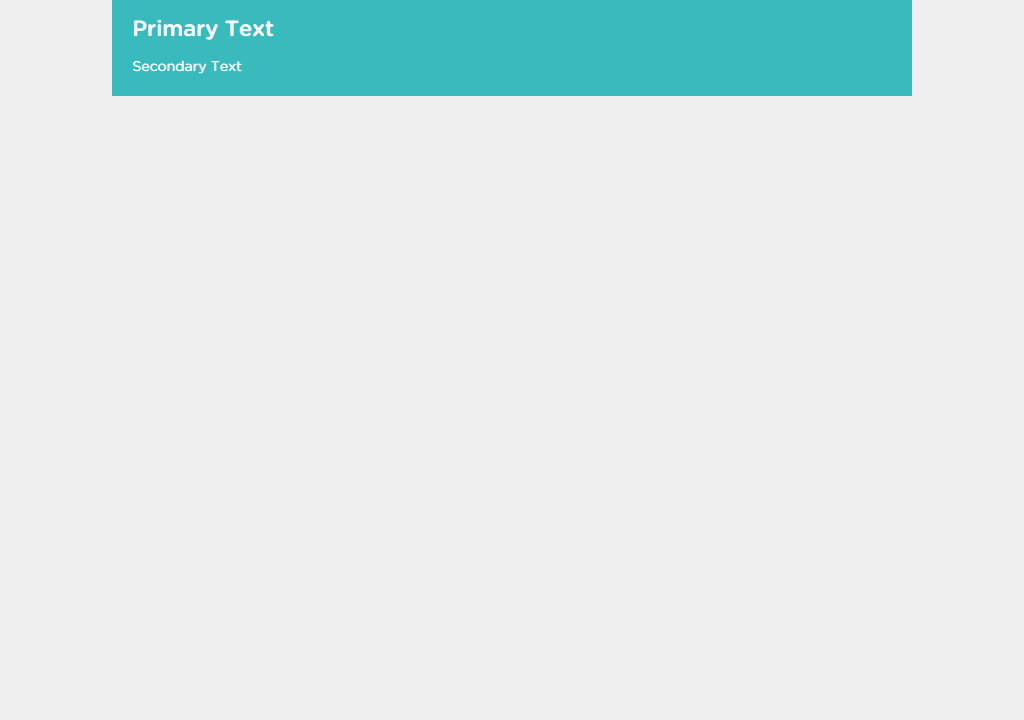
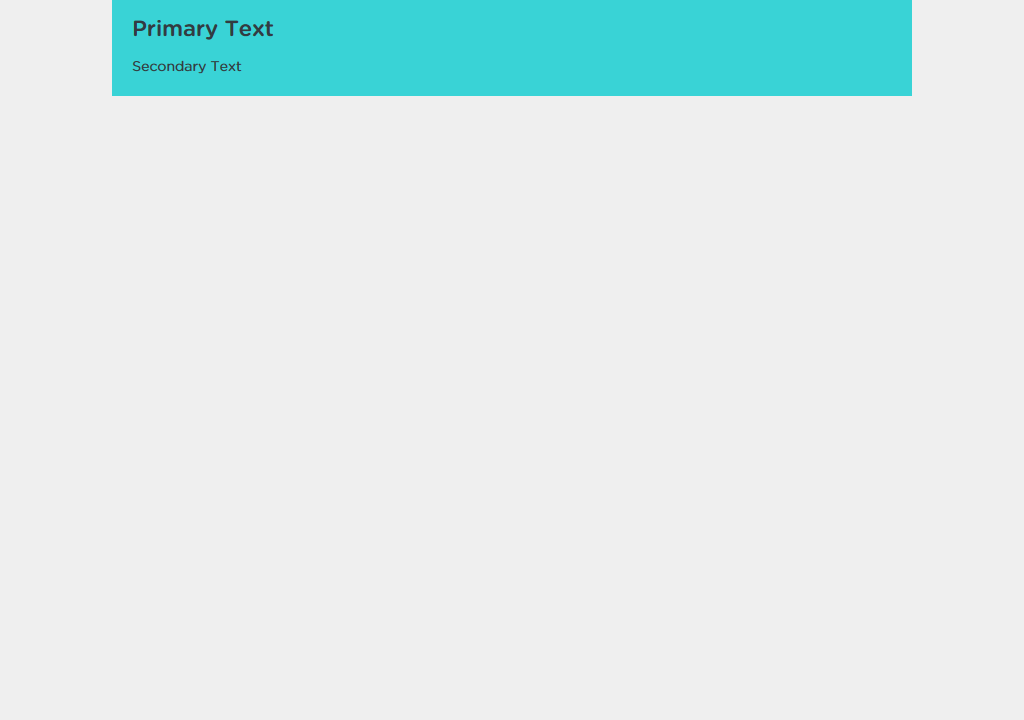
Invert header colors

Changed region(s): [[0.0938, 0.0, 0.9062, 0.1528]]

diff --git a/src/components/HeaderBar.scss b/src/components/HeaderBar.scss
@@ -2,7 +2,7 @@
     background-color: $brand-pane-alt-light;
 
     &, & a {
-       color: white !important;
+       color: $brand-text-dark !important;
     }
 
     /* FIXME check these */
@@ -31,7 +31,7 @@
         transform: rotate(5deg);
 
         path, circle {
-            fill: white;
+            fill: $brand-text-dark;
         }
     }
 

diff --git a/src/styles/colors.scss b/src/styles/colors.scss
@@ -3,7 +3,7 @@ $brand-bg-mid:         #767676;
 $brand-bg-light:       #edece9;
 
 $brand-pane-alt-dark:  #a21e78;
-$brand-pane-alt-light: #38b9bb;  // N.B. not enough contrast with white
+$brand-pane-alt-light: #3ed1d3;  // N.B. not enough contrast with white
 
 $brand-highlight:      #e52d4f;
 
